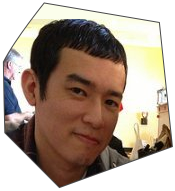
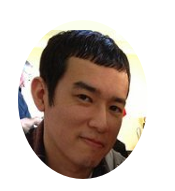
adjust footer

diff --git a/_includes/footer.html b/_includes/footer.html
@@ -2,34 +2,17 @@
 
   <div class="wrapper">
 
-    <h2 class="footer-heading">{{ site.title }}</h2>
-
+    
+<!-- <h2 class="footer-heading">{{ site.title }}</h2> -->
     <div class="footer-col-wrapper">
-      <div class="footer-col  footer-col-1">
-        <ul class="contact-list">
-          <li>Send me an email</li>
-          <li><a href="mailto:{{ site.email }}">{{ site.email }}</a></li>
-        </ul>
-      </div>
-
-      <div class="footer-col  footer-col-2">
-        <ul class="social-media-list">
-          {% if site.github_username %}
-          <li>
-            <a href="https://github.com/{{ site.github_username }}">
-              <span class="icon  icon--github">
-                <svg viewBox="0 0 16 16">
-                  <path fill="#828282" d="M7.999,0.431c-4.285,0-7.76,3.474-7.76,7.761 c0,3.428,2.223,6.337,5.307,7.363c0.388,0.071,0.53-0.168,0.53-0.374c0-0.184-0.007-0.672-0.01-1.32 c-2.159,0.469-2.614-1.04-2.614-1.04c-0.353-0.896-0.862-1.135-0.862-1.135c-0.705-0.481,0.053-0.472,0.053-0.472 c0.779,0.055,1.189,0.8,1.189,0.8c0.692,1.186,1.816,0.843,2.258,0.645c0.071-0.502,0.271-0.843,0.493-1.037 C4.86,11.425,3.049,10.76,3.049,7.786c0-0.847,0.302-1.54,0.799-2.082C3.768,5.507,3.501,4.718,3.924,3.65 c0,0,0.652-0.209,2.134,0.796C6.677,4.273,7.34,4.187,8,4.184c0.659,0.003,1.323,0.089,1.943,0.261 c1.482-1.004,2.132-0.796,2.132-0.796c0.423,1.068,0.157,1.857,0.077,2.054c0.497,0.542,0.798,1.235,0.798,2.082 c0,2.981-1.814,3.637-3.543,3.829c0.279,0.24,0.527,0.713,0.527,1.437c0,1.037-0.01,1.874-0.01,2.129 c0,0.208,0.14,0.449,0.534,0.373c3.081-1.028,5.302-3.935,5.302-7.362C15.76,3.906,12.285,0.431,7.999,0.431z"/>
-                </svg>
-              </span>
-
-              <span class="username">{{ site.github_username }}</span>
-            </a>
-          </li>
-          {% endif %}
-
+      <div class="footer-col  footer-col-3">
+        <div class="brief-bio">
+          <img src="{{ site.url }}/assets/twitter-pic.png" width="65" />
+          <p>jmarknel is <a href="https://www.linkedin.com/pub/josh-nelson/19/236/968">Josh Nelson</a>, an Interface Designer living in Austin, Texas.</p>
+          <p>Get in touch.<br />
+          
           {% if site.twitter_username %}
-          <li>
+          
             <a href="https://twitter.com/{{ site.twitter_username }}">
               <span class="icon  icon--twitter">
                 <svg viewBox="0 0 16 16">
@@ -40,17 +23,24 @@
 
               <span class="username">{{ site.twitter_username }}</span>
             </a>
-          </li>
+          
           {% endif %}
-        </ul>
+        </p>
+        </div>
+        
       </div>
 
-      <div class="footer-col  footer-col-3">
-          
-    
+      <div class="footer-col  footer-col-2">
+        
+      </div>
+
+      <div class="footer-col  footer-col-1">
+         
       </div>
     </div>
-
+    <div class="cpr">
+      <p>&copy; 2014 {{ site.title }}</p>
+    </div>
   </div>
 
 </footer>

diff --git a/index.html b/index.html
@@ -3,16 +3,17 @@ layout: default
 ---
 
 <div class="home">
-  <div class="intro" style="text-align: center;">
+  <div class="intro">
+    
     <p class="text">{{ site.description }}</p>
   </div>
 
-  <h1 class="page-heading">Recent Writing</h1>
+  <h1 class="page-heading">Latest Note</h1>
 
   <ul class="post-list">
     {% for post in paginator.posts %}
       <li>
-        <span class="post-meta">{{ post.date | date: "%b %-d, %Y" }}</span>
+        <span class="post-meta">Written on {{ post.date | date: "%b %-d, %Y" }} | {{post.categories}}</span>
 
         <h2>
           <a class="post-link" href="{{ post.url | prepend: site.baseurl }}">{{ post.title }}</a>

diff --git a/_layouts/post.html b/_layouts/post.html
@@ -5,7 +5,7 @@ layout: default
 
   <header class="post-header">
     <h1 class="post-title">{{ page.title }}</h1>
-    <p class="post-meta">{{ page.date | date: "%b %-d, %Y" }}{% if page.author %} • {{ page.author }}{% endif %}{% if page.meta %} • {{ page.meta }}{% endif %}</p>
+    <p class="post-meta">Written on {{ page.date | date: "%b %-d, %Y" }}{% if page.author %} • {{ page.author }}{% endif %}{% if page.meta %} • {{ page.meta }}{% endif %}</p>
   </header>
 
   <article class="post-content">

diff --git a/_sass/_jn-styles.scss b/_sass/_jn-styles.scss
@@ -1,3 +1,24 @@
 .site-nav {
 	border: none;
 }
+
+.intro {
+	text-align: center;
+	margin-bottom: 4em;
+}
+
+.brief-bio {
+	overflow: hidden;
+	img {
+		float: left;
+	}
+	p {
+		padding-left: 65px;
+	}
+}
+
+.cpr {
+	text-align: center;
+	color: #e1e1e1;
+	font-size: .75em;
+}

diff --git a/about.html b/about.html
@@ -1,0 +1,7 @@
+---
+layout: page
+title: All notes
+permalink: /all-notes/
+---
+
+
